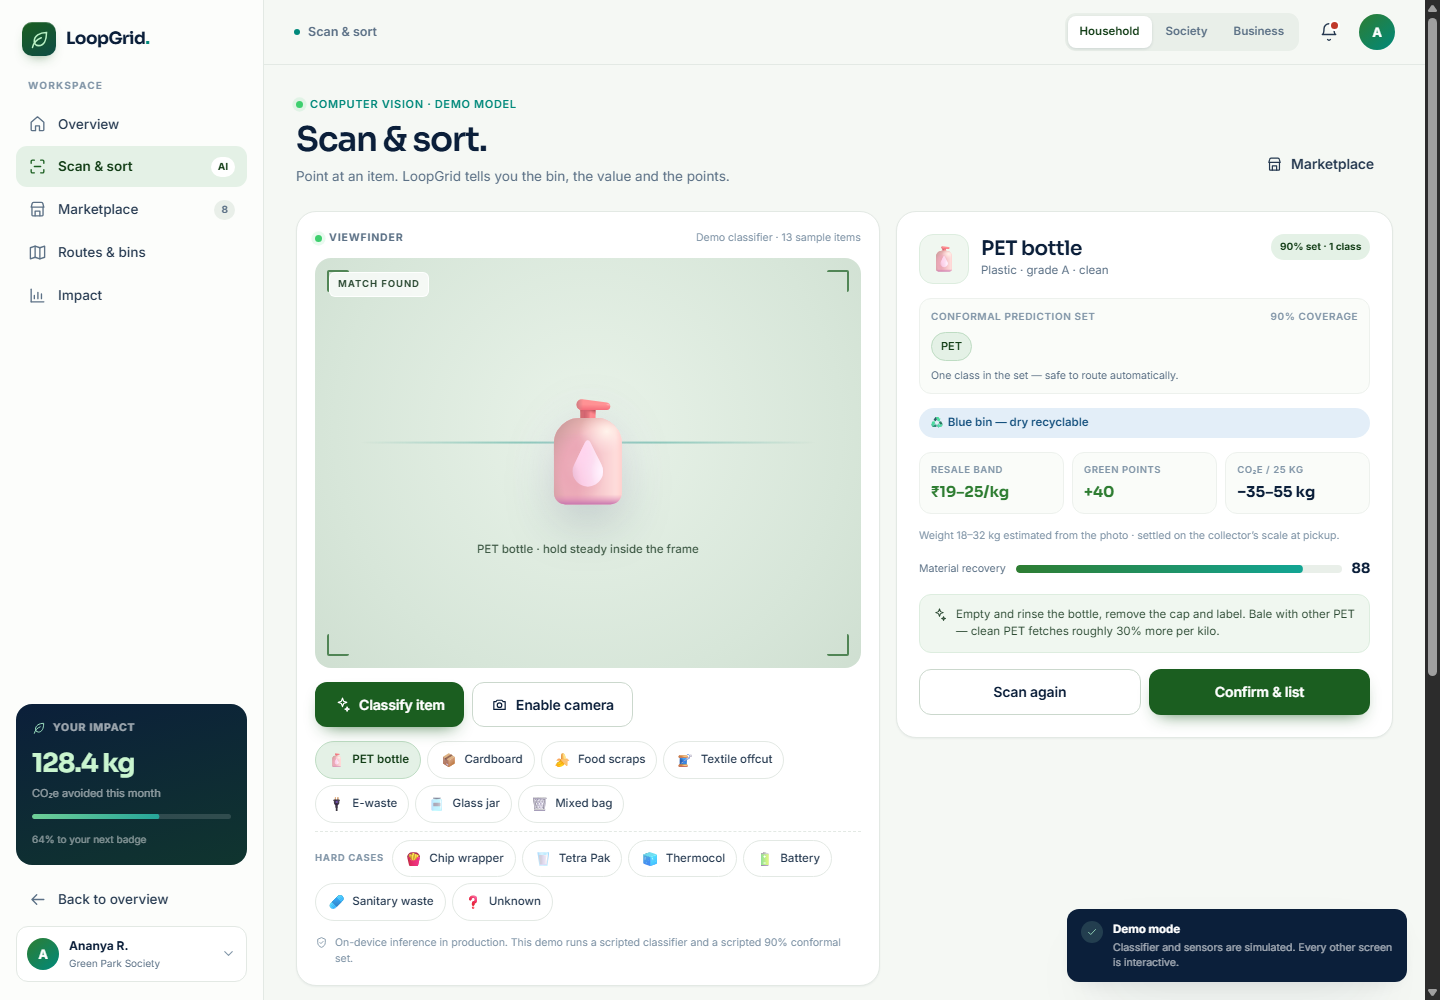
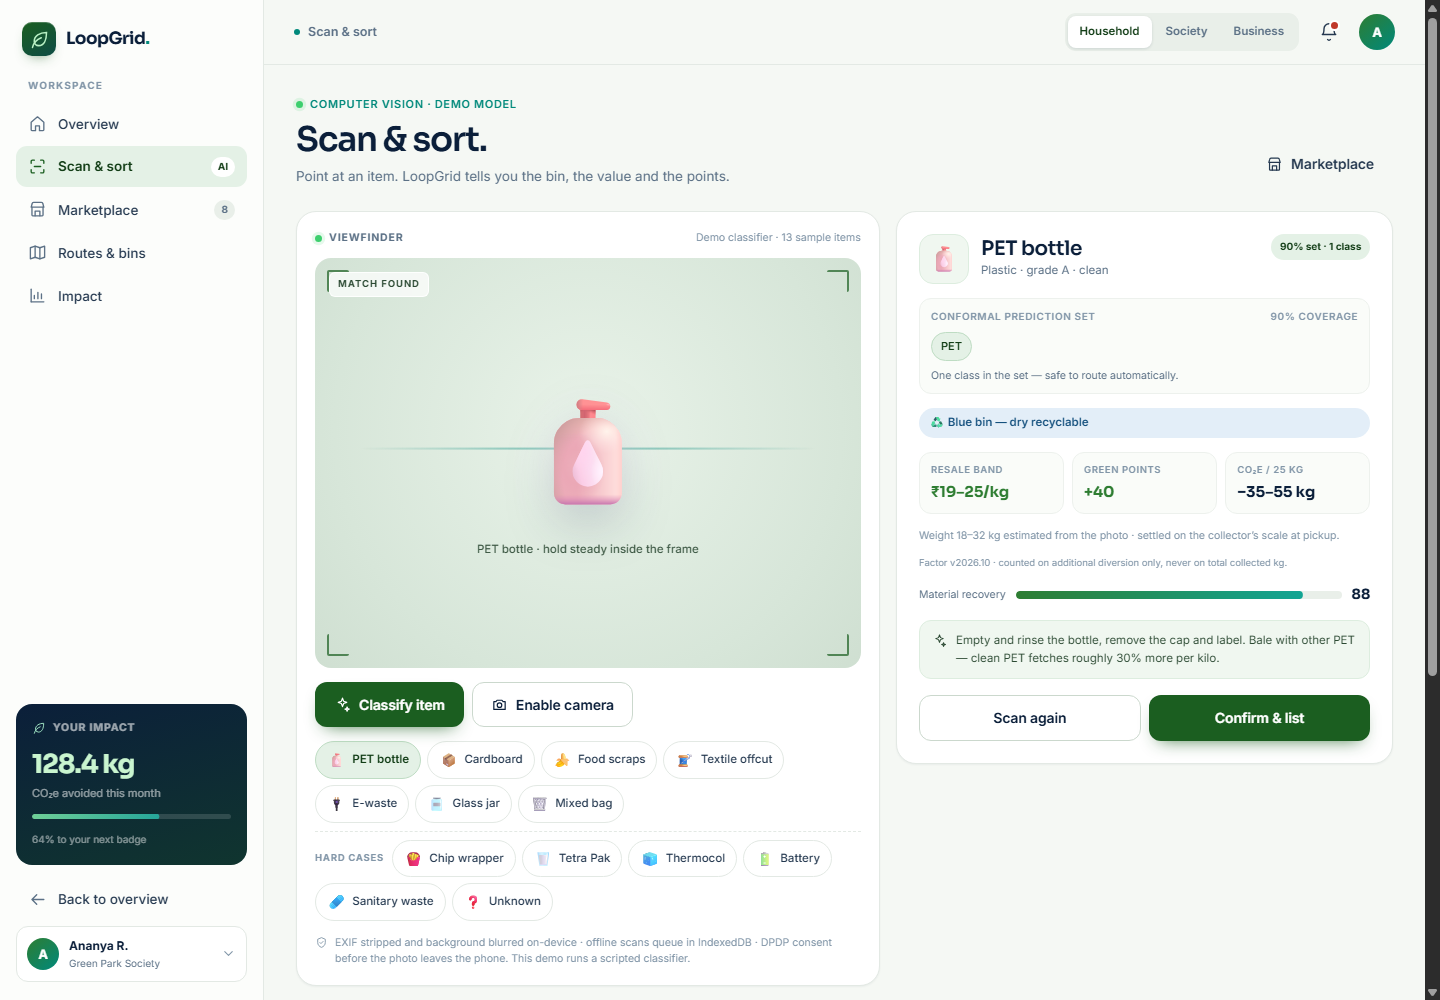
Add co-signed ledger, collector passport and live price feedback

diff --git a/assets/styles.css b/assets/styles.css
@@ -519,6 +519,29 @@ input, textarea, select, button { font-family: inherit; }
 .activity-list p b { font-weight: 600; }
 .activity-list small { font-size: 10px; color: var(--muted-2); display: block; margin-top: 1px; }
 
+/* Kabadiwala-first collector passport */
+.collector-card { grid-column: span 12; background: linear-gradient(150deg, #0B1F3A, #0D2B33 72%, #123A30); border-color: #15343c; color: #fff; }
+.collector-head { display: flex; align-items: flex-start; justify-content: space-between; gap: 14px; flex-wrap: wrap; }
+.collector-id { display: flex; gap: 13px; align-items: center; min-width: 0; }
+.collector-avatar { width: 48px; height: 48px; border-radius: 14px; display: grid; place-items: center; flex: none; font-family: var(--display); font-size: 16px; font-weight: 700; letter-spacing: .02em; color: #0B1F3A; background: linear-gradient(150deg, #C9F5CF, #7FE0A4); }
+.collector-card .card-label { color: rgba(255,255,255,.5); margin-bottom: 3px; }
+.collector-id h2 { display: flex; align-items: center; gap: 8px; flex-wrap: wrap; font-size: 16px; color: #fff; }
+.rep-badge { display: inline-flex; align-items: center; gap: 4px; font-family: var(--font); font-size: 9.5px; font-weight: 700; letter-spacing: .02em; color: #0B1F3A; background: #C9F5CF; border-radius: 999px; padding: 3px 7px; }
+.rep-badge .icon { width: 10px; height: 10px; }
+.collector-meta { font-size: 10.5px; color: rgba(255,255,255,.58); margin-top: 2px; }
+.collector-card .chip.good { background: rgba(127,224,164,.14); border-color: rgba(127,224,164,.32); color: #B6F0C7; }
+.collector-grid { display: grid; grid-template-columns: repeat(4, 1fr); gap: 10px; margin-top: 16px; }
+.collector-stat { background: rgba(255,255,255,.055); border: 1px solid rgba(255,255,255,.1); border-radius: 12px; padding: 11px 12px; }
+.collector-stat span { display: block; font-size: 9.5px; text-transform: uppercase; letter-spacing: .06em; color: rgba(255,255,255,.5); font-weight: 600; }
+.collector-stat b { display: block; font-family: var(--display); font-size: 18px; letter-spacing: -.02em; margin-top: 3px; color: #C9F5CF; }
+.collector-stat small { display: block; font-size: 9.5px; color: rgba(255,255,255,.45); margin-top: 1px; }
+.collector-actions { display: flex; align-items: center; justify-content: space-between; gap: 12px; flex-wrap: wrap; margin-top: 14px; }
+.collector-channels { display: flex; gap: 6px; flex-wrap: wrap; }
+.channel-chip { font-size: 10px; font-weight: 600; color: rgba(255,255,255,.74); border: 1px solid rgba(255,255,255,.16); border-radius: 999px; padding: 4px 9px; }
+.collector-card .btn-primary { background: #C9F5CF; color: #0B1F3A; border-color: #C9F5CF; }
+.collector-card .btn-primary:hover { background: #B6F0C7; border-color: #B6F0C7; }
+.collector-note { font-size: 10px; color: rgba(255,255,255,.42); line-height: 1.55; margin-top: 12px; padding-top: 10px; border-top: 1px solid rgba(255,255,255,.1); }
+
 .onboard-card { grid-column: span 12; }
 .onboard-count { font-size: 11px; font-weight: 600; color: var(--muted); }
 .onboard-steps { display: grid; grid-template-columns: repeat(3, 1fr); gap: 10px; }
@@ -606,6 +629,10 @@ input, textarea, select, button { font-family: inherit; }
 .set-chip.empty { border-style: dashed; color: var(--muted); background: transparent; }
 .set-note { font-size: 10.5px; color: var(--muted); line-height: 1.5; }
 .weight-note { font-size: 10.5px; color: var(--muted-2); line-height: 1.5; }
+.co2-note { font-size: 9.5px; color: var(--muted-2); line-height: 1.5; margin-top: -2px; }
+.price-feedback { display: flex; gap: 8px; align-items: flex-start; background: var(--amber-100); border: 1px solid #F3DFB6; border-radius: 12px; padding: 10px 11px; font-size: 11px; color: #6F470A; line-height: 1.5; }
+.price-feedback .icon { width: 14px; height: 14px; flex: none; margin-top: 2px; color: #B7791F; }
+.price-feedback b { font-weight: 700; }
 .hazard-banner { display: flex; gap: 9px; background: var(--red-100); border: 1px solid #F2CFC9; border-radius: 12px; padding: 11px 12px; font-size: 11.5px; color: #7E2A20; line-height: 1.55; }
 .hazard-banner .icon { width: 15px; height: 15px; flex: none; margin-top: 1px; }
 .samples-hard { margin-top: 8px; padding-top: 8px; border-top: 1px dashed var(--line); }
@@ -909,6 +936,16 @@ input, textarea, select, button { font-family: inherit; }
 .ledger-main small { display: block; font-size: 9.5px; color: var(--muted); }
 .ledger-hash { font-family: ui-monospace, "SF Mono", Menlo, Consolas, monospace; font-size: 9px; color: var(--muted-2); background: #F5F8F5; border: 1px solid var(--line-2); border-radius: 5px; padding: 2px 5px; margin-top: 3px; display: inline-block; }
 .ledger-note { font-size: 10px; color: var(--muted-2); line-height: 1.55; margin-top: 12px; padding-top: 10px; border-top: 1px dashed var(--line-2); }
+.ledger-note.muted { border-top: 0; padding-top: 0; margin-top: 4px; }
+.sig-row { display: flex; align-items: center; gap: 4px; flex-wrap: wrap; margin-top: 5px; }
+.sig-chip { display: inline-flex; align-items: center; gap: 3px; font-size: 9px; font-weight: 600; color: var(--green-900); background: var(--green-50); border: 1px solid #DDEDDF; border-radius: 999px; padding: 2px 6px; }
+.sig-chip .icon { width: 9px; height: 9px; color: var(--green-600); }
+.sig-badge { font-size: 8.5px; font-weight: 700; letter-spacing: .04em; text-transform: uppercase; color: var(--teal); background: var(--teal-100); border-radius: 999px; padding: 2px 6px; }
+.merkle-anchor { display: flex; align-items: center; justify-content: space-between; gap: 10px; flex-wrap: wrap; margin-top: 14px; padding: 11px 12px; border: 1px solid #DDEDDF; border-radius: 12px; background: var(--green-50); }
+.merkle-main { min-width: 0; }
+.merkle-label { display: block; font-size: 9px; text-transform: uppercase; letter-spacing: .07em; color: var(--muted); font-weight: 700; }
+.merkle-main b { display: block; font-family: ui-monospace, "SF Mono", Menlo, Consolas, monospace; font-size: 11px; color: var(--green-900); margin-top: 2px; }
+.merkle-main small { display: block; font-size: 9.5px; color: var(--muted-2); margin-top: 1px; }
 
 /* =========================================================
    MODALS + TOASTS
@@ -1079,6 +1116,7 @@ input, textarea, select, button { font-family: inherit; }
   .home-grid { display: block; }
   .home-grid > * { margin-bottom: 14px; }
   .quick-row { display: grid; grid-template-columns: 1fr; gap: 10px; }
+  .collector-grid { grid-template-columns: 1fr 1fr; }
   .impact-card { flex-direction: column; align-items: flex-start; }
   .ring-wrap { position: absolute; right: 18px; bottom: 18px; width: 104px; height: 104px; }
   .impact-tags { max-width: 60%; }
@@ -1145,6 +1183,11 @@ input, textarea, select, button { font-family: inherit; }
   .source-bar { display: none; }
   .source-contam { font-size: 9.5px; }
   .source-score-val { width: 46px; font-size: 12px; }
+  .collector-grid { grid-template-columns: 1fr 1fr; }
+  .collector-actions { align-items: stretch; }
+  .collector-actions .btn { width: 100%; }
+  .merkle-anchor .btn { width: 100%; }
+  .sig-row { gap: 3px; }
 }
 
 /* =========================================================

diff --git a/assets/app.js b/assets/app.js
@@ -141,6 +141,13 @@
     }
   };
 
+  /* Clean-grade reference price. Contaminated samples show the live discount. */
+  SAMPLES.food.cleanPrice = 6;
+  SAMPLES.tetrapak.cleanPrice = 3;
+  Object.values(SAMPLES).forEach((s) => {
+    if (s.price && !s.cleanPrice) s.cleanPrice = s.price;
+  });
+
   const MAT_META = {
     'PET bottles': { category: 'Plastic', emoji: '🧴', thumb: 'plastic' },
     'Cardboard': { category: 'Paper', emoji: '📦', thumb: 'paper' },
@@ -233,13 +240,18 @@
   ];
 
   const LEDGER = [
-    { title: 'Processing confirmed', meta: 'Okhla Recyclers · 18 Oct, 16:20', hash: '0x7c1a…9e04', done: true },
-    { title: 'Accepted by buyer', meta: 'Weight 118.4 kg · 18 Oct, 15:02', hash: '0x2f88…b31c', done: true },
-    { title: 'Delivered to buyer', meta: 'QR scanned at gate · 18 Oct, 14:40', hash: '0x9d02…44ae', done: true },
-    { title: 'Collected from society', meta: 'Rafiq K. · 18 Oct, 11:05', hash: '0x5be7…c190', done: true },
-    { title: 'Pickup accepted', meta: 'Auto-assigned by route engine', hash: '0x81cc…7d2f', done: true },
-    { title: 'Listing created', meta: 'Ananya R. · 17 Oct, 19:32', hash: '0xa34e…0b51', done: true }
+    { title: 'Pickup co-signed', meta: 'Rafiq K. + Ananya R. · 118.4 kg · 18 Oct, 11:05', hash: '0x5be7…c190', sigs: ['Rafiq K.', 'Ananya R.'], done: true },
+    { title: 'Delivery co-signed', meta: 'Rafiq K. + Okhla Recyclers · QR at gate · 18 Oct, 14:40', hash: '0x9d02…44ae', sigs: ['Rafiq K.', 'Okhla Recyclers'], done: true },
+    { title: 'Buyer acceptance co-signed', meta: 'Okhla Recyclers + Green Park Society · 18 Oct, 15:02', hash: '0x2f88…b31c', sigs: ['Okhla Recyclers', 'Green Park Society'], done: true },
+    { title: 'Processing co-signed', meta: 'Okhla Recyclers + Shree Paper Mills · 18 Oct, 16:20', hash: '0x7c1a…9e04', sigs: ['Okhla Recyclers', 'Shree Paper Mills'], done: true }
   ];
+
+  const MERKLE = {
+    root: '0x8f3c…a71d',
+    day: '18 Oct 2026',
+    commit: 'a71d9c2',
+    rows: LEDGER.length
+  };
 
   /* ---------------------------------------------------------
      Tiny helpers
@@ -657,6 +669,9 @@
           ? 'One class in the set — safe to route automatically.'
           : `${size} possible materials. Pick the one you are holding; the choice is logged for review.`;
 
+    const dirty = s.price > 0 && s.cleanPrice > s.price;
+    const drop = dirty ? Math.round((1 - s.price / s.cleanPrice) * 100) : 0;
+
     body.innerHTML = `
       <div class="result-head">
         <div class="result-cat">
@@ -687,7 +702,10 @@
         <div class="result-cell"><span>CO₂e / 25 kg</span><b>${co2}</b></div>
       </div>
 
+      ${dirty ? `<div class="price-feedback">${icon('trend')}<span><b>−${drop}% for ${s.contamination.join(' + ')}.</b> Clean grade pays ₹${s.cleanPrice}/kg; your band is ${band}/kg. This is the price signal, not a penalty.</span></div>` : ''}
+
       <p class="weight-note">Weight 18–32 kg estimated from the photo · settled on the collector’s scale at pickup.</p>
+      <p class="co2-note">Factor v2026.10 · counted on additional diversion only, never on total collected kg.</p>
 
       <div class="mrs-row">
         <span class="mrs-label">Material recovery</span>
@@ -1253,8 +1271,27 @@
     host.innerHTML = LEDGER.map((e) => `
       <div class="ledger-item ${e.done ? '' : 'pending'}">
         <span class="ledger-dot">${e.done ? icon('check') : ''}</span>
-        <div class="ledger-main"><b>${e.title}</b><small>${e.meta}</small><span class="ledger-hash">${e.hash}</span></div>
+        <div class="ledger-main">
+          <b>${e.title}</b>
+          <small>${e.meta}</small>
+          <div class="sig-row">
+            ${e.sigs.map((s) => `<span class="sig-chip">${icon('check')} ${s}</span>`).join('')}
+            <span class="sig-badge">2-of-2</span>
+          </div>
+          <span class="ledger-hash">${e.hash}</span>
+        </div>
       </div>`).join('');
+
+    const anchor = $('#merkleAnchor');
+    if (anchor) {
+      anchor.innerHTML = `
+        <div class="merkle-main">
+          <span class="merkle-label">Daily Merkle root · ${MERKLE.day}</span>
+          <b>${MERKLE.root}</b>
+          <small>Public repo commit ${MERKLE.commit} + OpenTimestamps</small>
+        </div>
+        <button class="btn btn-soft btn-sm" data-verify-anchor>${icon('shield')} Verify anchor</button>`;
+    }
   }
 
   function renderImpact(role) {
@@ -1391,6 +1428,20 @@
         const dot = btn.querySelector('.notif-dot');
         if (dot) dot.remove();
         toast('2 new updates', 'IIT Gate 2 is at 88% and your PET listing got a third buyer match.');
+        return;
+      }
+
+      if (e.target.closest('[data-verify-anchor]')) {
+        const btn = e.target.closest('[data-verify-anchor]');
+        popIcon(btn.querySelector('.icon'));
+        toast('Anchor verified', `Root ${MERKLE.root} matches public commit ${MERKLE.commit} · ${MERKLE.rows} co-signed handoffs.`);
+        return;
+      }
+
+      if (e.target.closest('[data-collector-payout]')) {
+        const btn = e.target.closest('[data-collector-payout]');
+        popIcon(btn);
+        toast('₹1,240 released', 'UPI transfer to Rafiq K. triggered on QR confirmation. Demo only — no money moves.');
         return;
       }
 

diff --git a/index.html b/index.html
@@ -428,6 +428,35 @@
             <ul class="activity-list" id="homeActivity"></ul>
           </section>
 
+          <section class="card collector-card">
+            <div class="collector-head">
+              <div class="collector-id">
+                <span class="collector-avatar" aria-hidden="true">RK</span>
+                <div>
+                  <p class="card-label">Kabadiwala-first · verified collector</p>
+                  <h2>Rafiq Khan <span class="rep-badge"><svg class="icon"><use href="#i-check"/></svg> 4.9 reputation</span></h2>
+                  <p class="collector-meta">Green Park beat · 312 co-signed pickups · passport LG-KW-0412</p>
+                </div>
+              </div>
+              <span class="chip good"><svg class="icon"><use href="#i-shield"/></svg> KYC + UPI linked</span>
+            </div>
+            <div class="collector-grid">
+              <div class="collector-stat"><span>Settled this month</span><b>₹18,420</b><small>straight to UPI</small></div>
+              <div class="collector-stat"><span>Weight accuracy</span><b>98.6%</b><small>vs buyer scale</small></div>
+              <div class="collector-stat"><span>On-time pickups</span><b>96%</b><small>142 this quarter</small></div>
+              <div class="collector-stat"><span>Clean-handoff bonus</span><b>+6 pts</b><small>to source score</small></div>
+            </div>
+            <div class="collector-actions">
+              <div class="collector-channels">
+                <span class="channel-chip">हिन्दी voice notes</span>
+                <span class="channel-chip">WhatsApp bot</span>
+                <span class="channel-chip">Works on a ₹8,000 phone</span>
+              </div>
+              <button class="btn btn-primary btn-sm" data-collector-payout>Release ₹1,240 on QR</button>
+            </div>
+            <p class="collector-note">Demo passport. In production the reputation is built only from dual-signed handoffs — not self-reported ratings — so a collector’s record travels with them between apps.</p>
+          </section>
+
           <section class="card onboard-card">
             <div class="card-head">
               <div><h2>Finish setting up</h2><p>3 steps · about 4 minutes</p></div>
@@ -507,7 +536,7 @@
               <button class="sample" data-sample="sanitary"><span>🩹</span>Sanitary waste</button>
               <button class="sample" data-sample="unknown"><span>❓</span>Unknown</button>
             </div>
-            <p class="stage-note"><svg class="icon"><use href="#i-shield"/></svg> On-device inference in production. This demo runs a scripted classifier and a scripted 90% conformal set.</p>
+            <p class="stage-note"><svg class="icon"><use href="#i-shield"/></svg> Production pipeline: EXIF stripped and background blurred on-device, scans queued in IndexedDB, DPDP consent before upload. This demo runs a scripted classifier.</p>
           </section>
 
           <section class="card scan-result" id="scanResult">
@@ -768,9 +797,11 @@
           </section>
 
           <section class="card ledger-card">
-            <div class="card-head"><div><h2>Traceability ledger</h2><p>Hash-chained pickup events</p></div><span class="chip good"><svg class="icon"><use href="#i-shield"/></svg> Intact</span></div>
+            <div class="card-head"><div><h2>Co-signed ledger</h2><p>Collector + buyer sign every handoff</p></div><span class="chip good"><svg class="icon"><use href="#i-shield"/></svg> 2-of-2 · intact</span></div>
             <div class="ledger" id="ledgerList"></div>
-            <p class="ledger-note">Each event stores the previous hash, so a deleted or edited pickup breaks the chain and is flagged in the ESG report.</p>
+            <div class="merkle-anchor" id="merkleAnchor"></div>
+            <p class="ledger-note">Ed25519 signatures from both parties. A daily Merkle root is committed to a public repo, so neither side — nor LoopGrid — can rewrite a row alone.</p>
+            <p class="ledger-note muted">Demo: rows, signatures and the anchor are illustrative. No keys are generated in this build.</p>
           </section>
         </div>
       </section>

diff --git a/README.md b/README.md
@@ -72,11 +72,11 @@ No secrets or API keys are needed.
 | Route | What it does |
 |---|---|
 | Overview (`#landing`) | Pitch, problem chain, six-step loop, B2C/B2B/ops layers, modelled impact, pricing |
-| Overview | Dashboard with carbon ring, green points wallet, bin fill sensors, activity, onboarding checklist |
-| Scan & sort | Simulated calibrated classifier: 13 sample items, 90% conformal prediction set, hazardous override, unknown/OOD path, bin, resale band, recovery score, confirm → listing |
+| Overview | Dashboard with carbon ring, green points wallet, bin fill sensors, activity, onboarding checklist, verified collector passport (kabadiwala-first) |
+| Scan & sort | Simulated calibrated classifier: 13 sample items, 90% conformal prediction set, hazardous override, unknown/OOD path, bin, resale band, live price feedback when contamination is detected, recovery score, confirm → listing |
 | Marketplace | Filterable listings, search, verified toggle, save/shortlist, listing detail modal with QR + hash timeline |
 | Routes & bins | Stylised South Delhi map, fill levels, route optimiser, skip-under-40% toggle, overflow prediction |
-| Impact | Role-based metrics, monthly diversion chart, material donut, source-level quality score, society leaderboard, traceability ledger, CSV export |
+| Impact | Role-based metrics, monthly diversion chart, material donut, source-level quality score, society leaderboard, co-signed ledger with Merkle anchor, CSV export |
 
 **Demo script for judges (≈90 seconds)**
 
@@ -84,10 +84,11 @@ No secrets or API keys are needed.
 2. **Scan & sort** → choose *PET bottle* → **Classify item**. The card shows a **90% conformal set with one class**, so it auto-routes. → **Confirm & list**.
 3. You land in **Marketplace** with the new listing at the top.
 4. Open a listing → show QR, status timeline, **Accept pickup**.
-5. Back on **Scan & sort**, open *Hard cases* → **Battery** → **Request certified pickup** (no points, no listing). Then **Unknown** → **Needs review** (empty set, no auto-route).
+5. Back on **Scan & sort**, open *Hard cases* → **Food scraps** to show the **live price feedback** (clean ₹6/kg vs ₹4/kg for wet + food residue). Then **Battery** → **Request certified pickup** (no points, no listing), and **Unknown** → **Needs review** (empty set, no auto-route).
 6. **Routes & bins** → **Optimise route** → 14.2 km → 9.6 km, 3 low bins skipped.
-7. **Impact** → point at the **source quality score** (contamination % → score/100) → switch Household / Society / Business → **Export ESG report**.
-8. Optional: topbar role switch, **Redeem** points, mobile bottom nav.
+7. **Overview** → point at Rafiq Khan's **collector passport** (reputation from co-signed pickups, UPI payout, Hindi/WhatsApp channels).
+8. **Impact** → point at the **source quality score** (contamination % → score/100) → scroll to the **co-signed ledger** → **Verify anchor** (Merkle root vs public commit) → switch Household / Society / Business → **Export ESG report**.
+9. Optional: topbar role switch, **Redeem** points, mobile bottom nav.
 
 ---
 
@@ -98,6 +99,8 @@ No secrets or API keys are needed.
 - Bin fill levels and sensor pings are **simulated**; the UI says so.
 - Routing numbers (14.2 → 9.6 km, fuel, CO₂e) are modelled, not measured.
 - Marketplace sellers, weights, hashes, source quality scores and ESG rows are demo data. The scoring rule is printed on the card.
+- The co-signed ledger, signature chips, collector passport and Merkle anchor are **illustrative UI**. No Ed25519 keys are generated, no signatures are verified, no UPI payment is initiated, and the root is not committed anywhere. The UI says so on the card.
+- The live price feedback uses hand-authored clean/contaminated reference prices, not a market feed.
 - Camera preview is real (`getUserMedia`) but classification still maps to the sample set.
 
 This is deliberate: the deck and the app should not claim a model or hardware that does not exist yet.

diff --git a/ARCHITECTURE.md b/ARCHITECTURE.md
@@ -515,9 +515,11 @@ pickups. Buyers price lots by source; generators watch their score move and lose
 money when they mix. This is the behaviour loop that scanning alone does not
 create — it makes clean segregation *worth* something.
 
-Secondary hooks, if there is room: micro-lot pooling against recycler standing
-orders, live price feedback when contamination is detected, Grad-CAM on the
-result card, and a digital-twin slider that recomputes km/fuel/CO₂ live.
+Secondary hooks: **live price feedback** is already in the demo — the ₹/kg band
+drops when contamination is detected, so the user sees why segregation pays.
+Still on the roadmap: micro-lot pooling against recycler standing orders,
+Grad-CAM on the result card, and a digital-twin slider that recomputes
+km/fuel/CO₂ live.
 
 ---
 
@@ -531,12 +533,14 @@ result card, and a digital-twin slider that recomputes km/fuel/CO₂ live.
 | "14.2 km → 9.6 km" | Modelled table, not solved |
 | "₹14/kg" | Illustrative band |
 | CO₂e figures | Modelled bands; factor version is a placeholder |
-| "Hash-chained ledger" | Chain format real, rows demo, signatures absent |
+| Co-signed ledger / 2-of-2 signatures | UI demo: rows, signature chips and Merkle anchor are illustrative. No Ed25519 keys, no signature verification, no external commit |
+| Collector passport / reputation | Demo data; no KYC, verified pickups or UPI transfer |
+| Live price feedback | Hand-authored clean vs contaminated reference prices, not a market feed |
 | Source quality score | Demo data, scoring rule described |
 | Camera preview | Real `getUserMedia`, classification scripted |
 
-Nothing here claims a trained model, live sensors, signed handoffs or paying
-buyers.
+Nothing here claims a trained model, live sensors, signed handoffs, paying
+buyers or real money movement.
 
 ---
 
